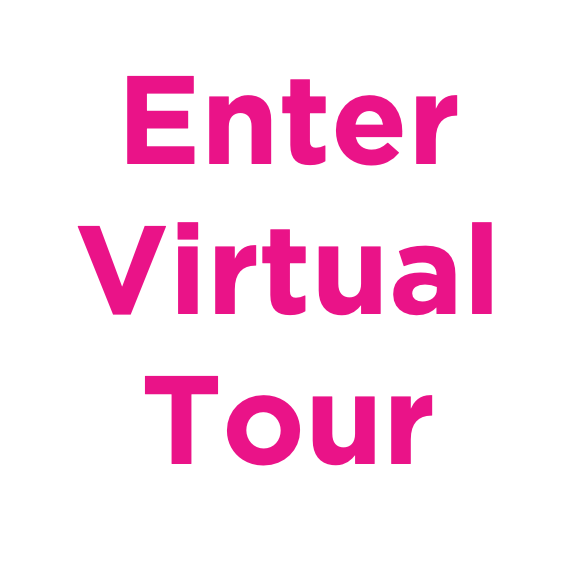
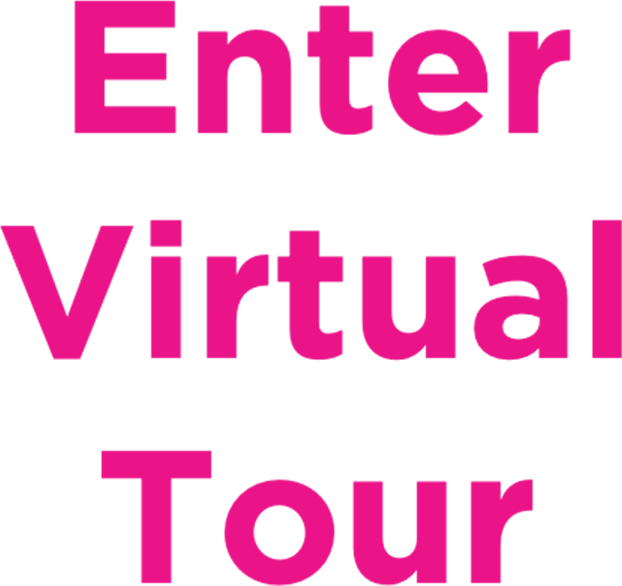
title page changes

diff --git a/index.html b/index.html
@@ -12,8 +12,8 @@
       const bg = document.querySelector('#bg')
       const text = document.querySelector('#text')
 
-      const bgVStextHeight = enter.height / bg.height
-      const bgVStextWidth = enter.width / bg.width
+      const bgVStextHeight = text.height / bg.height
+      const bgVStextWidth = text.width / bg.width
 
       function placeBG () {
         const bgAR = bg.width / bg.height
@@ -29,8 +29,8 @@
           text.style.height = bgVStextHeight * innerHeight + 'px'
           bg.style.top = '0px'
           bg.style.left = (innerWidth / 2) - (bg.width / 2) + 'px'
-          text.style.top = '10vh'
-          text.style.left = (innerWidth / 2) - (bg.width / 2) + (bg.width * 0.38) + 'px'
+          text.style.top = '34vh'
+          text.style.left = (innerWidth / 2) - (bg.width / 2) + (bg.width * 0.58) + 'px'
         } else { // when screen is tighter than bg ratio
           bg.style.width = innerWidth + 'px'
           bg.style.height = innerWidth / bgAR + 'px'
@@ -38,8 +38,8 @@
           text.style.height = bgVStextHeight * (innerWidth / bgAR) + 'px'
           bg.style.top = (innerHeight / 2) - (bg.height / 2) + 'px'
           bg.style.left = '0px'
-          text.style.top = (innerHeight / 2) - (bg.height / 2) + (bg.height * 0.67) + 'px'
-          text.style.left = '10vw'
+          text.style.top = (innerHeight / 2) - (bg.height / 2) + (bg.height * 0.34) + 'px'
+          text.style.left = '58vw'
         }
       }
 
